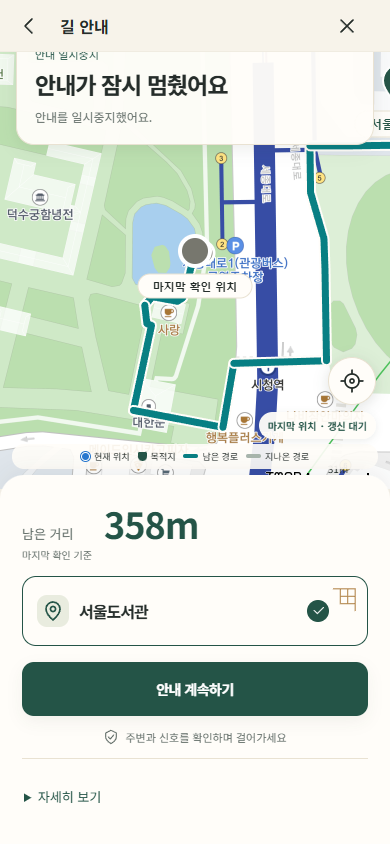
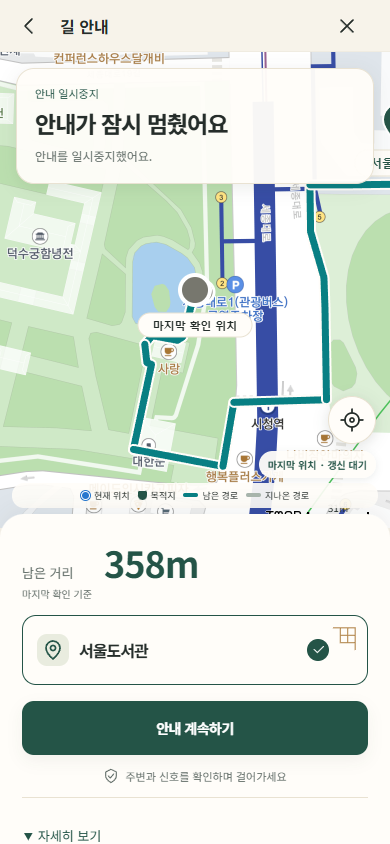
docs: verify home return and paused guidance on production

diff --git a/docs/portfolio/work-log.md b/docs/portfolio/work-log.md
@@ -287,3 +287,6 @@
 
 
 실제 지도 SDK 자원 해제 수정 후 production `dpl_4UQNSfwZNa9M3pRFckBQqAaeMbVb`에서 실제 서울도서관 검색·도보 경로와 주입한 공개 GPS 좌표로 X/홈/복귀/일시중지/재개/종료를 확인했다. watch 1회 유지·일시중지 후 해제·재개 후 종료 해제, 페이지 오류 0개 확인. 실제 실외 GPS는 미검증. 캡처 검토에서 일시중지 후 기존 스크롤 위치로 상단 카드가 가려지는 점을 추가로 발견해 GPS 활성 상태 전환 시 안내 화면을 위로 맞췄다. 수정 후 빌드·관련 12개 통과. 최종 배포 확인은 다음 기록 참조.
+
+
+2026-11-12 최종 배포: 구현 `5a38dd2`, 실제 SDK 해제 보완 `212f33c`, 일시중지 스크롤 보완 `91e358b`. Production `dpl_CXH8A1kXKJksqtgbeXp2Xa9LZQ2U` READY 및 https://gilbit.vercel.app 반영. 실제 TMAP 서울도서관 검색·도보 경로/타일과 주입 공개 GPS로 X→홈→안내 복귀→일시중지→재개→확인 종료를 검증했다. X 이동 중 watch 유지, 일시중지/종료 때만 해제, 복귀 카드 제거, 일시중지 직후 scrollTop 0, 페이지 오류 0개 확인. 실제 실외 GPS/화면 잠금 중 추적은 검증 또는 지원 완료로 표현하지 않는다. 캡처: portfolio 기준 `assets/2026-11-12-session-active-390.png`, `assets/2026-11-12-session-home-390.png`, `assets/2026-11-12-session-paused-390.png`. 최초 전체 125개 통과 후 실제 SDK 정리 보완 관련 28개, 최종 스크롤 보완 관련 12개/빌드 통과. 전체125개를 마지막 보완 후 재실행한 것은 아니다. 인증 값·인증 URL은 출력하지 않았다.

diff --git a/docs/issues/2026-11-12-guidance-session-home.md b/docs/issues/2026-11-12-guidance-session-home.md
@@ -23,3 +23,6 @@
 
 
 실제 지도 SDK 자원 해제 수정 후 production `dpl_4UQNSfwZNa9M3pRFckBQqAaeMbVb`에서 실제 서울도서관 검색·도보 경로와 주입한 공개 GPS 좌표로 X/홈/복귀/일시중지/재개/종료를 확인했다. watch 1회 유지·일시중지 후 해제·재개 후 종료 해제, 페이지 오류 0개 확인. 실제 실외 GPS는 미검증. 캡처 검토에서 일시중지 후 기존 스크롤 위치로 상단 카드가 가려지는 점을 추가로 발견해 GPS 활성 상태 전환 시 안내 화면을 위로 맞췄다. 수정 후 빌드·관련 12개 통과. 최종 배포 확인은 다음 기록 참조.
+
+
+2026-11-12 최종 배포: 구현 `5a38dd2`, 실제 SDK 해제 보완 `212f33c`, 일시중지 스크롤 보완 `91e358b`. Production `dpl_CXH8A1kXKJksqtgbeXp2Xa9LZQ2U` READY 및 https://gilbit.vercel.app 반영. 실제 TMAP 서울도서관 검색·도보 경로/타일과 주입 공개 GPS로 X→홈→안내 복귀→일시중지→재개→확인 종료를 검증했다. X 이동 중 watch 유지, 일시중지/종료 때만 해제, 복귀 카드 제거, 일시중지 직후 scrollTop 0, 페이지 오류 0개 확인. 실제 실외 GPS/화면 잠금 중 추적은 검증 또는 지원 완료로 표현하지 않는다. 캡처: portfolio 기준 `assets/2026-11-12-session-active-390.png`, `assets/2026-11-12-session-home-390.png`, `assets/2026-11-12-session-paused-390.png`. 최초 전체 125개 통과 후 실제 SDK 정리 보완 관련 28개, 최종 스크롤 보완 관련 12개/빌드 통과. 전체125개를 마지막 보완 후 재실행한 것은 아니다. 인증 값·인증 URL은 출력하지 않았다.

diff --git a/docs/deployment.md b/docs/deployment.md
@@ -73,3 +73,6 @@
 
 
 2026-11-12 헤더 축소 배포: 코드 `ca1f16d`, production `dpl_Byt7wU7YDKX3RLtEG9M3BG8xPJWU` READY. gilbit.vercel.app HTTP 200 및 guidance-header 52px CSS 반영 확인. 조작/배치 검증은 로컬 브라우저 6개이며 배포 실기기 재측정은 미실시.
+
+
+2026-11-12 최종 배포: 구현 `5a38dd2`, 실제 SDK 해제 보완 `212f33c`, 일시중지 스크롤 보완 `91e358b`. Production `dpl_CXH8A1kXKJksqtgbeXp2Xa9LZQ2U` READY 및 https://gilbit.vercel.app 반영. 실제 TMAP 서울도서관 검색·도보 경로/타일과 주입 공개 GPS로 X→홈→안내 복귀→일시중지→재개→확인 종료를 검증했다. X 이동 중 watch 유지, 일시중지/종료 때만 해제, 복귀 카드 제거, 일시중지 직후 scrollTop 0, 페이지 오류 0개 확인. 실제 실외 GPS/화면 잠금 중 추적은 검증 또는 지원 완료로 표현하지 않는다. 캡처: portfolio 기준 `assets/2026-11-12-session-active-390.png`, `assets/2026-11-12-session-home-390.png`, `assets/2026-11-12-session-paused-390.png`. 최초 전체 125개 통과 후 실제 SDK 정리 보완 관련 28개, 최종 스크롤 보완 관련 12개/빌드 통과. 전체125개를 마지막 보완 후 재실행한 것은 아니다. 인증 값·인증 URL은 출력하지 않았다.
